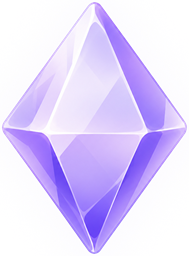
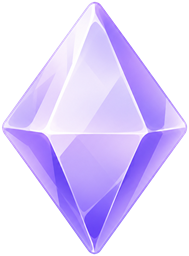
Recompensa: diamante sin glow propio + resplandor envolvente aplicado por CSS con el color del tema

diff --git a/src/components/quests/QuestsView.tsx b/src/components/quests/QuestsView.tsx
@@ -449,7 +449,9 @@ export function QuestsView() {
               draggable={false}
               aria-hidden="true"
               className="size-12 shrink-0 select-none object-contain"
-              style={{ filter: `drop-shadow(0 3px 9px ${theme.colorA}59)` }}
+              style={{
+                filter: `drop-shadow(0 0 10px ${theme.colorA}66) drop-shadow(0 3px 7px ${theme.colorA}40)`,
+              }}
             />
             <div>
               <p className="text-2xl font-black text-ink">+{MONTHLY_QUEST_XP} XP</p>